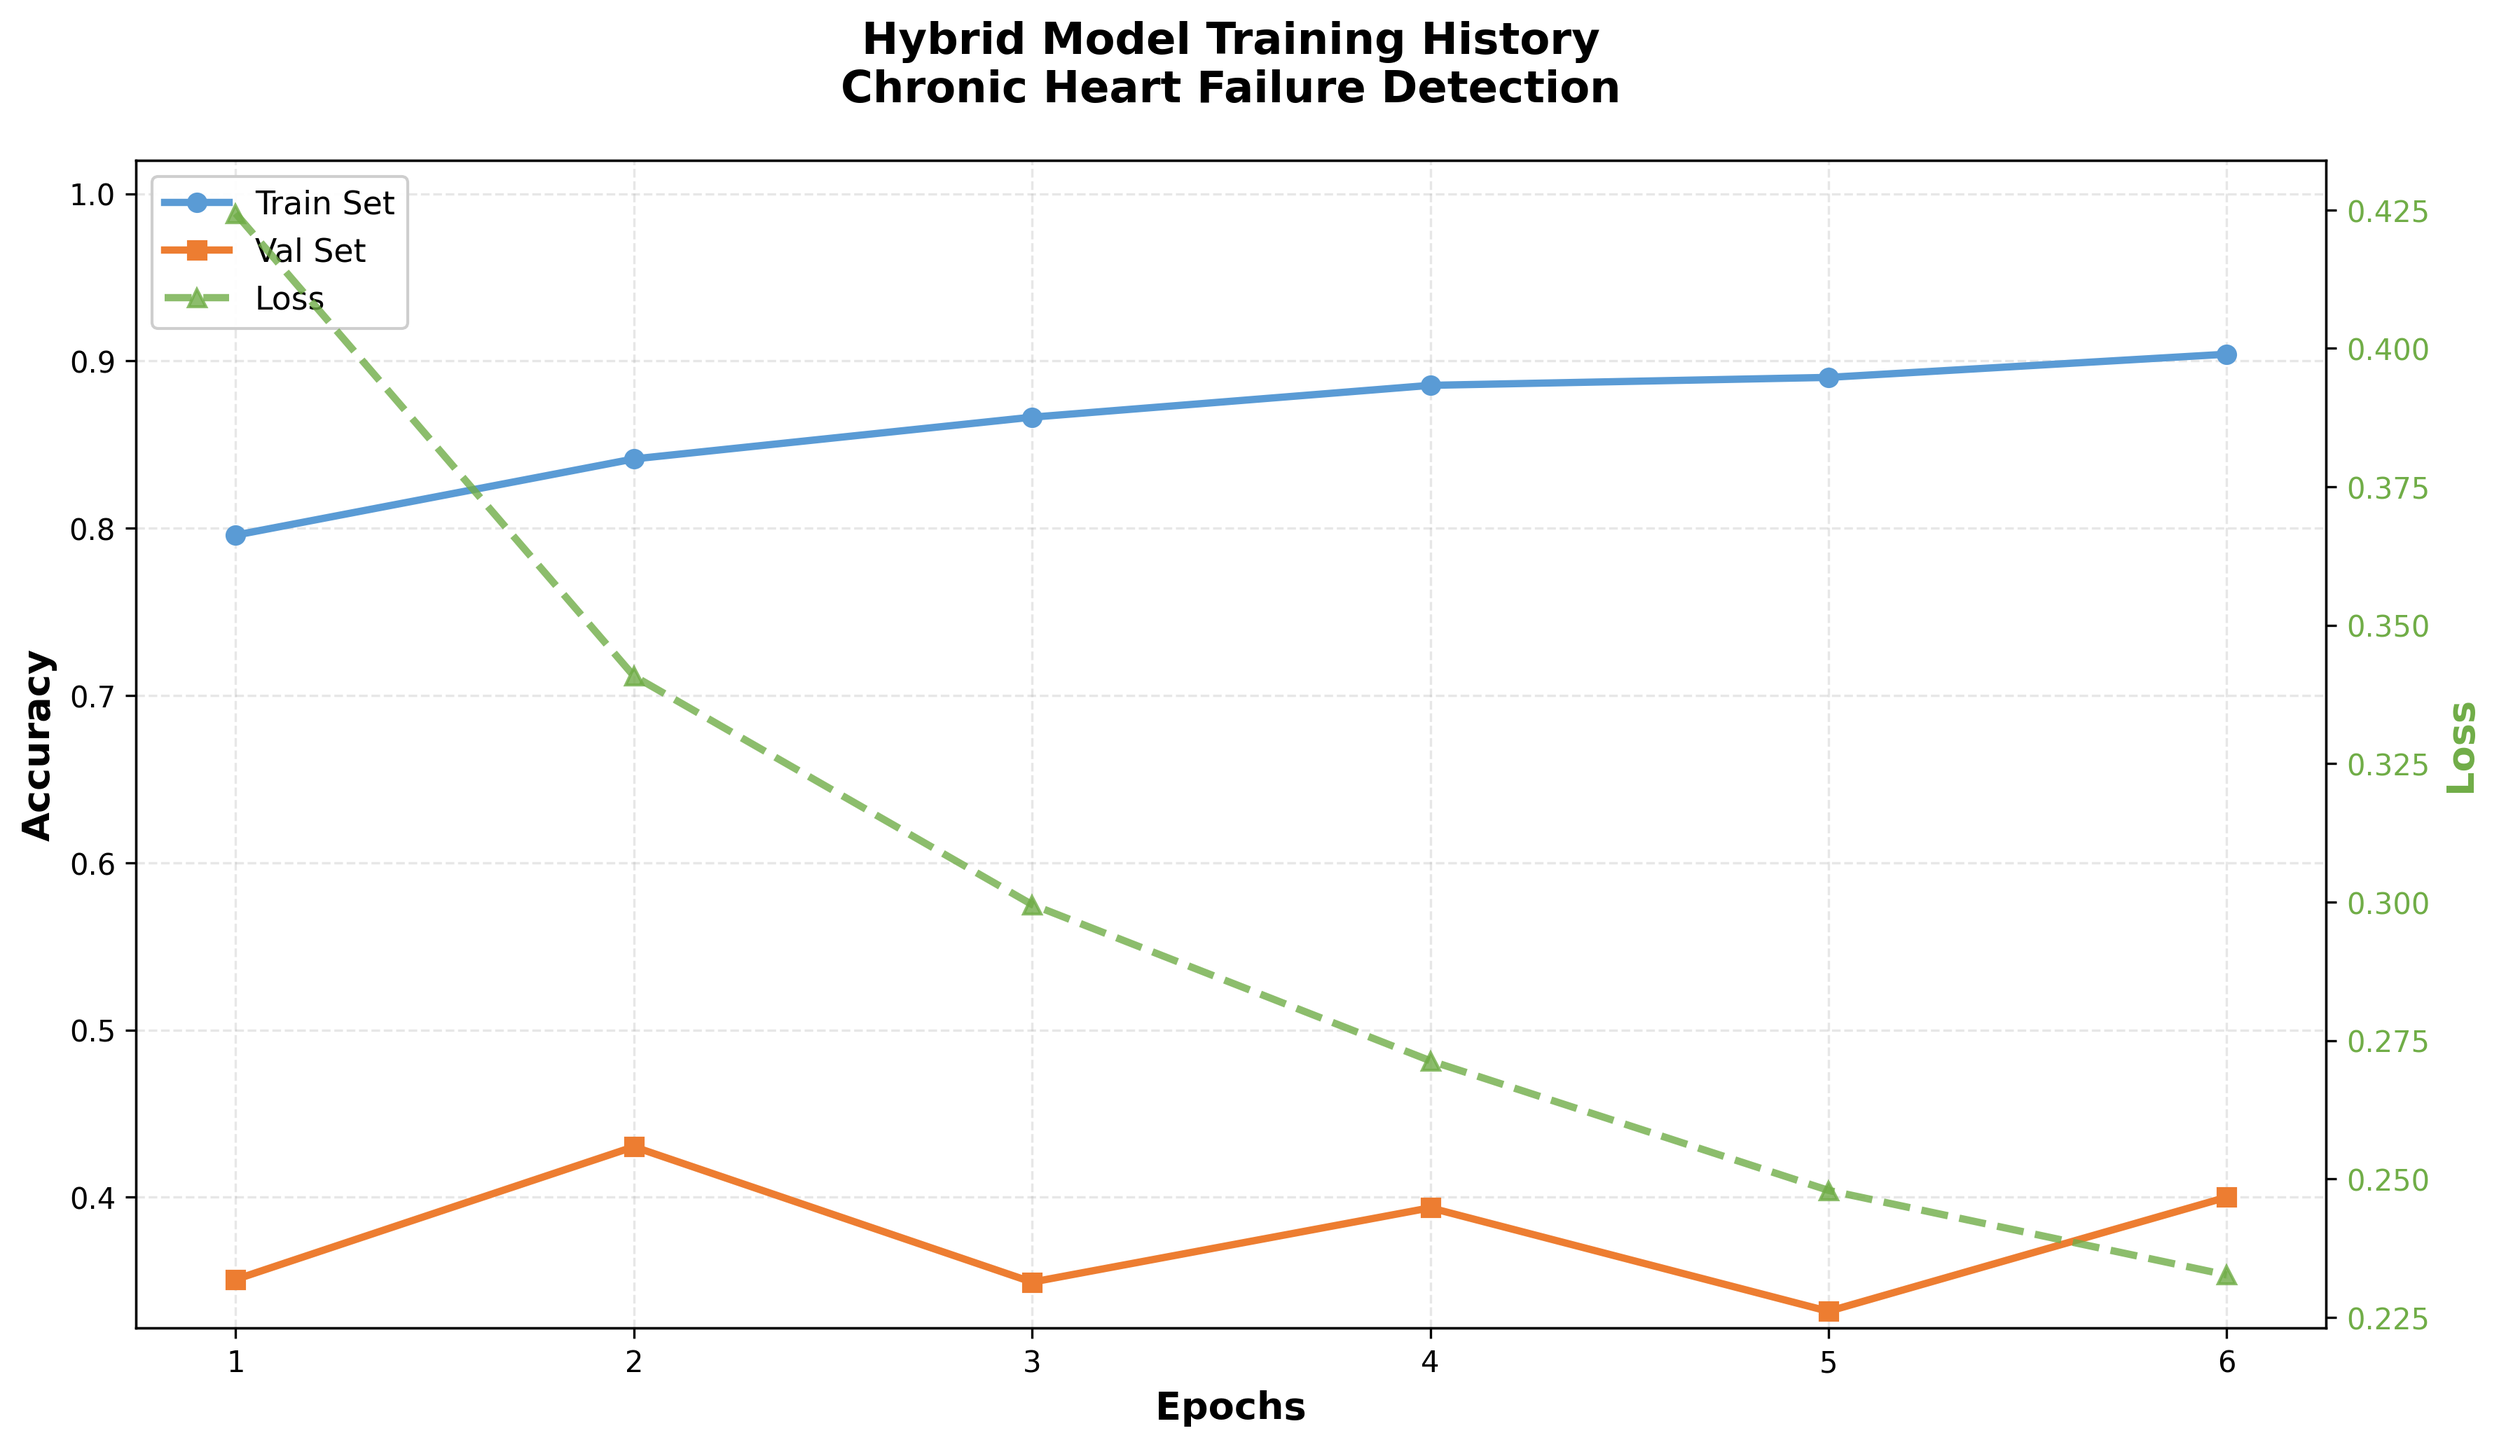
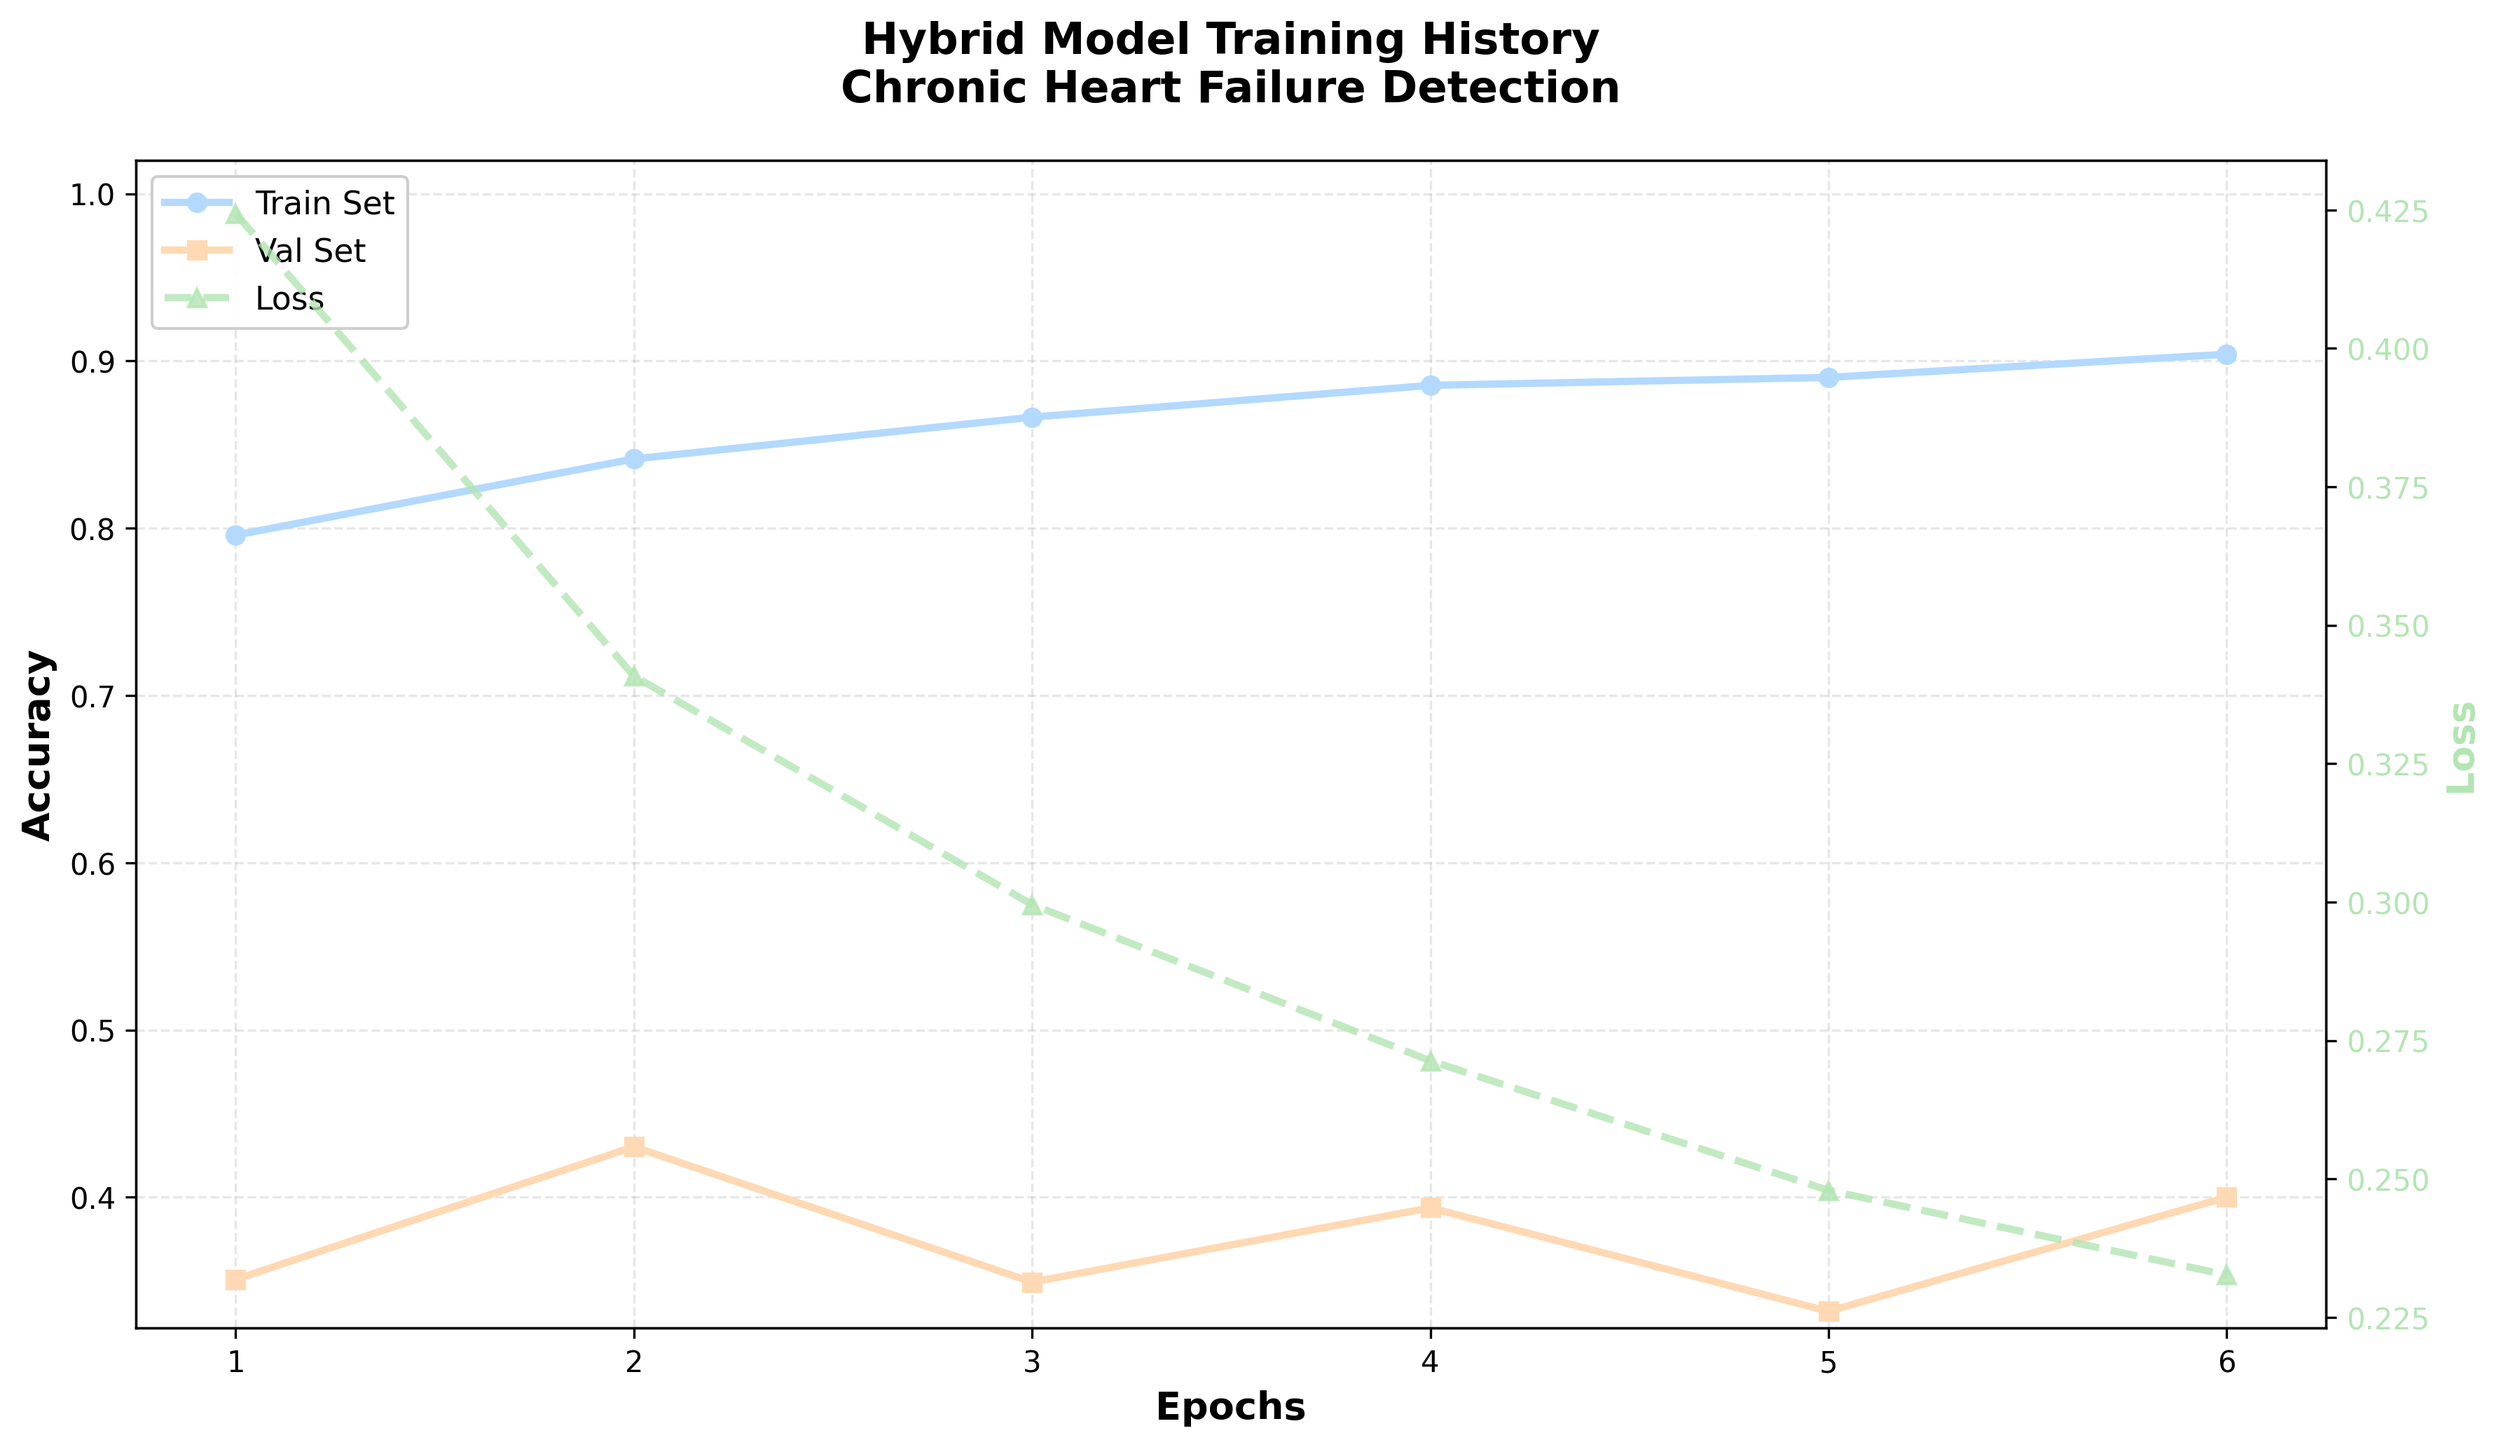
commit

diff --git a/src/evaluate_hybrid.py b/src/evaluate_hybrid.py
@@ -9,7 +9,7 @@ matplotlib.use('Agg')  # Use non-interactive backend
 import matplotlib.pyplot as plt
 import seaborn as sns
 
-from sklearn.metrics import accuracy_score, confusion_matrix, classification_report, roc_curve, auc, roc_auc_score
+from sklearn.metrics import accuracy_score, confusion_matrix, classification_report, roc_curve, auc, roc_auc_score, precision_score, recall_score, f1_score
 from PIL import Image
 
 
@@ -82,8 +82,8 @@ def plot_training_history():
     fig, ax1 = plt.subplots(figsize=(12, 7))
     
     # Plot accuracy on left axis
-    color_train = '#5A9BD5'  # Blue
-    color_val = '#ED7D31'    # Orange
+    color_train = '#B3D9FF'  # Light Blue
+    color_val = '#FFD9B3'    # Light Orange
     
     ax1.set_xlabel('Epochs', fontsize=13, fontweight='bold')
     ax1.set_ylabel('Accuracy', fontsize=13, fontweight='bold', color='black')
@@ -99,7 +99,7 @@ def plot_training_history():
     
     # Create second y-axis for loss
     ax2 = ax1.twinx()
-    color_loss = '#70AD47'  # Green
+    color_loss = '#B3E5B3'  # Light Green
     
     ax2.set_ylabel('Loss', fontsize=13, fontweight='bold', color=color_loss)
     line_loss = ax2.plot(epochs, history['loss'], marker='^', color=color_loss, 
@@ -121,6 +121,87 @@ def plot_training_history():
     os.makedirs("results", exist_ok=True)
     plt.savefig("results/training_history_hybrid.png", dpi=300, bbox_inches='tight')
     print("✓ Training history chart saved to: results/training_history_hybrid.png")
+    plt.close()
+
+
+def plot_model_comparison(ml_scores, cnn_scores, hybrid_scores, y):
+    """Plot comparative model performance metrics."""
+    # Calculate metrics for each model
+    ml_pred = (ml_scores > 0.5).astype(int)
+    cnn_pred = (cnn_scores > 0.5).astype(int)
+    hybrid_pred = (hybrid_scores > 0.6).astype(int)
+    
+    models = ['SVM\n(ML Model)', 'CNN\n(Deep Learning)', 'Hybrid\n(Proposed)']
+    
+    # Calculate metrics
+    accuracy = [
+        accuracy_score(y, ml_pred),
+        accuracy_score(y, cnn_pred),
+        accuracy_score(y, hybrid_pred)
+    ]
+    
+    precision = [
+        precision_score(y, ml_pred, zero_division=0),
+        precision_score(y, cnn_pred, zero_division=0),
+        precision_score(y, hybrid_pred, zero_division=0)
+    ]
+    
+    recall = [
+        recall_score(y, ml_pred, zero_division=0),
+        recall_score(y, cnn_pred, zero_division=0),
+        recall_score(y, hybrid_pred, zero_division=0)
+    ]
+    
+    f1 = [
+        f1_score(y, ml_pred, zero_division=0),
+        f1_score(y, cnn_pred, zero_division=0),
+        f1_score(y, hybrid_pred, zero_division=0)
+    ]
+    
+    auc_scores = [
+        roc_auc_score(y, ml_scores),
+        roc_auc_score(y, cnn_scores),
+        roc_auc_score(y, hybrid_scores)
+    ]
+    
+    # Create bar chart
+    x = np.arange(len(models))
+    width = 0.16
+    
+    fig, ax = plt.subplots(figsize=(14, 8))
+    
+    colors = ['#AEC6FA', '#FFD9B3', '#B3E5B3', '#FFB3B3', '#E6B3FF']
+    
+    bars1 = ax.bar(x - 2*width, accuracy, width, label='Accuracy', color=colors[0], edgecolor='black', linewidth=1.2)
+    bars2 = ax.bar(x - width, precision, width, label='Precision', color=colors[1], edgecolor='black', linewidth=1.2)
+    bars3 = ax.bar(x, recall, width, label='Recall', color=colors[2], edgecolor='black', linewidth=1.2)
+    bars4 = ax.bar(x + width, f1, width, label='F1-Score', color=colors[3], edgecolor='black', linewidth=1.2)
+    bars5 = ax.bar(x + 2*width, auc_scores, width, label='AUC', color=colors[4], edgecolor='black', linewidth=1.2)
+    
+    # Add value labels on bars
+    for bars in [bars1, bars2, bars3, bars4, bars5]:
+        for bar in bars:
+            height = bar.get_height()
+            ax.text(bar.get_x() + bar.get_width()/2., height,
+                   f'{height:.3f}',
+                   ha='center', va='bottom', fontsize=9, fontweight='bold')
+    
+    ax.set_xlabel('Models', fontsize=13, fontweight='bold')
+    ax.set_ylabel('Score', fontsize=13, fontweight='bold')
+    ax.set_title('Comparative Model Performance\nChronic Heart Failure Detection', 
+                fontsize=15, fontweight='bold', pad=20)
+    ax.set_xticks(x)
+    ax.set_xticklabels(models, fontsize=12, fontweight='bold')
+    ax.set_ylim([0, 1.05])
+    ax.legend(fontsize=12, framealpha=0.95, loc='lower right')
+    ax.grid(True, alpha=0.3, axis='y', linestyle='--')
+    
+    plt.tight_layout()
+    
+    # Save the figure
+    os.makedirs("results", exist_ok=True)
+    plt.savefig("results/model_comparison.png", dpi=300, bbox_inches='tight')
+    print("✓ Model comparison chart saved to: results/model_comparison.png")
     plt.close()
 
 
@@ -190,6 +271,12 @@ def evaluate():
 
     print("\nClassification Report:")
     print(classification_report(y, y_pred))
+
+    # -------------------------
+    # Model Comparison Chart
+    # -------------------------
+    print("\nGenerating model comparison chart...")
+    plot_model_comparison(ml_scores, cnn_scores, hybrid_scores, y)
 
     # -------------------------
     # Hybrid Model AUC Score
